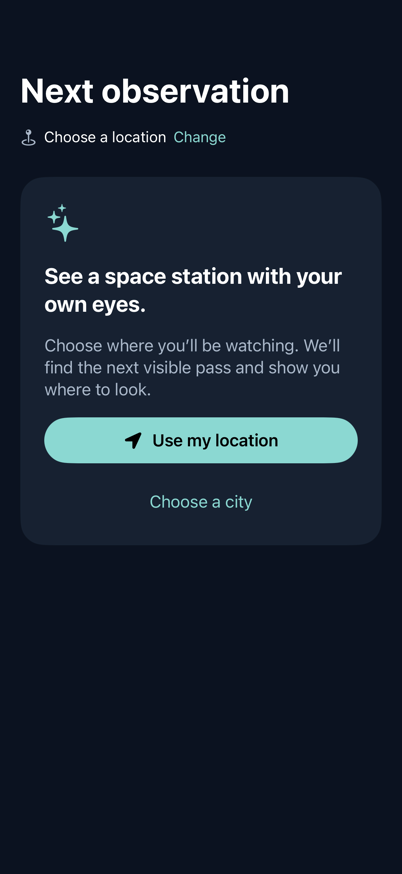
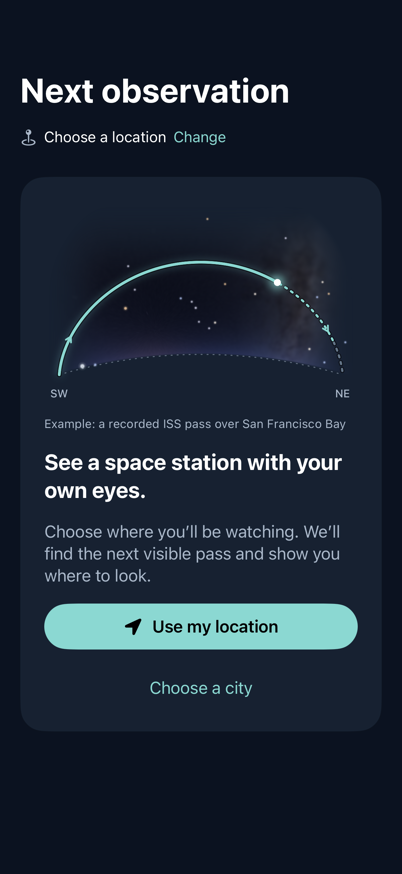
Show the recorded ISS pass in the location prompt
The prompt renders the onboarding's recorded September 2026 ISS pass over San
Francisco Bay through the real sky preview instead of a sparkles glyph, so the
card demonstrates what choosing a location unlocks.

Changed region(s): [[0.0896, 0.278, 0.8955, 0.7414], [0.3582, 0.7723, 0.6269, 0.8032], [0.1194, 0.2471, 0.1791, 0.278]]

diff --git a/Frameworks/SatelliteForecast/Impl/Sources/Views/Onboarding/OnboardingPassAnimation.swift b/Frameworks/SatelliteForecast/Impl/Sources/Views/Onboarding/OnboardingPassAnimation.swift
@@ -4,6 +4,7 @@ import SatelliteKit
 
 /// A recorded orbit, propagated locally: onboarding never depends on location or network access.
 struct OnboardingPassExample: Sendable {
+    let info: SatelliteInfo
     let pass: PassSnapshots
     let samples: [SatelliteSnapshot]
     static let observer = LatLonAlt(37.486743, -122.226560, 0)
@@ -22,7 +23,7 @@ struct OnboardingPassExample: Sendable {
         }) else { throw ExampleError.noVisiblePass }
         let samples = try info.generateSnapshots(observer: observer,
             julianDateRange: pass.pass.rise.julianDate...pass.pass.set.julianDate, interval: 1)
-        return Self(pass: pass, samples: samples)
+        return Self(info: info, pass: pass, samples: samples)
     }
     enum ExampleError: Error { case noVisiblePass }
 }
@@ -141,3 +142,38 @@ struct OnboardingPassAnimation: View {
         .clipShape(Circle())
     }
 }
+
+/// The recorded pass rendered through the real home sky preview, used where no observer
+/// location is available yet. Propagation runs off the main thread once per appearance.
+struct ObservationExamplePreview: View {
+    let session: AppSession
+    var isActive = true
+    @State private var example: OnboardingPassExample?
+    @State private var failed = false
+
+    var body: some View {
+        VStack(alignment: .leading, spacing: 6) {
+            Group {
+                if let example {
+                    ObservationSkyPreview(
+                        preview: .init(info: example.info, snapshots: .init(pass: example.pass.pass,
+                            snapshots: example.samples, notableSnapshots: example.pass.notableSnapshots)),
+                        observer: OnboardingPassExample.observer, session: session, isActive: isActive)
+                } else if failed {
+                    Color.clear
+                } else {
+                    ProgressView().frame(maxWidth: .infinity)
+                }
+            }
+            .frame(height: 210)
+            Text("Example: a recorded ISS pass over San Francisco Bay", bundle: .module)
+                .font(.caption).foregroundStyle(AppTheme.muted)
+        }
+        .task {
+            guard example == nil else { return }
+            let loaded = await Task.detached(priority: .userInitiated) { try? OnboardingPassExample.load() }.value
+            if let loaded { example = loaded } else { failed = true }
+        }
+    }
+}
+

diff --git a/Frameworks/SatelliteForecast/Impl/Sources/Views/SatelliteOverview/ObservationHomeView.swift b/Frameworks/SatelliteForecast/Impl/Sources/Views/SatelliteOverview/ObservationHomeView.swift
@@ -350,7 +350,7 @@ struct ObservationHomeView: View {
 
     private var locationPrompt: some View {
         VStack(alignment: .leading, spacing: 18) {
-            Image(systemName: "sparkles").font(.largeTitle).foregroundStyle(AppTheme.accent)
+            ObservationExamplePreview(session: session, isActive: isVisible && !showsLocation)
             Text("See a space station with your own eyes.", bundle: .module).font(.title2.bold())
             Text("Choose where you’ll be watching. We’ll find the next visible pass and show you where to look.", bundle: .module)
                 .foregroundStyle(AppTheme.muted)
